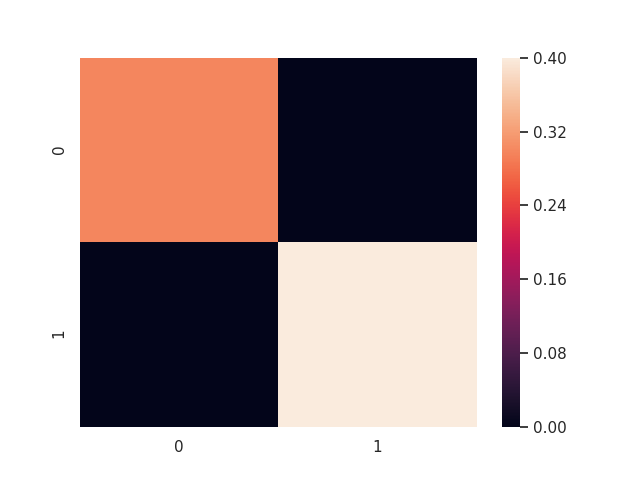
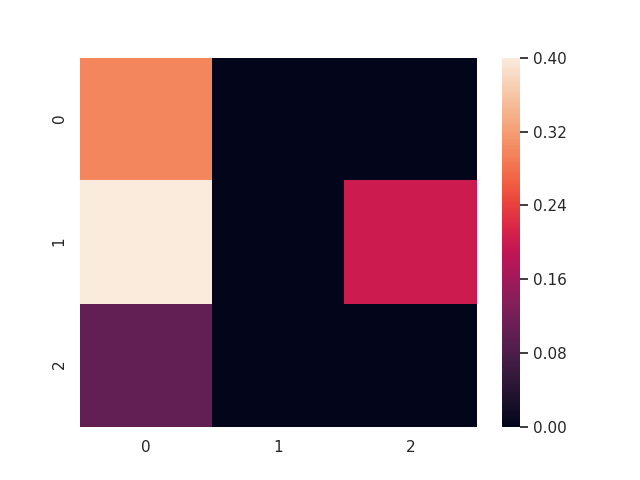
add plots for 3x3

Changed region(s): [[0.125, 0.0938, 0.75, 0.9375]]

diff --git a/examples/plot.py b/examples/plot.py
@@ -7,17 +7,16 @@ import matplotlib.pyplot as plt
 
 env = gym.make('ridesharing-v0')
 
-vf = valueIteration(env)
-opt_policy = get_policy(env, vf)
-np.savetxt("examples/csv/opt_policy.csv", opt_policy.astype(int), delimiter=",")
-
+#vf = valueIteration(env)
+#opt_policy = get_policy(env, vf)
+opt_policy = np.loadtxt("examples/csv/opt_policy.csv", delimiter=",")
 
 observed_state = env.reset()
 observed_state_index = env.b_map[(tuple(observed_state[0]), tuple(observed_state[1]))]
 loc_vec, end_vec, occupied_vec = [], [], []
 
 def vec_to_fig(input_vector, fig_name, num_period):
-    counts = np.array([input_vector.count(x) for x in range(4)]).reshape(2, 2)
+    counts = np.array([input_vector.count(x) for x in range(9)]).reshape(3, 3)
     rate = np.divide(counts, num_period)
     map = sns.heatmap(rate)
     fig = map.get_figure()
@@ -31,7 +30,7 @@ for num_period in periods:
 
     for i in range(num_period):
         grid_state = observed_state[0]
-        for j in range(4):
+        for j in range(9):
             if grid_state[j] > 0:
                 occupied_vec.append(j)
 
